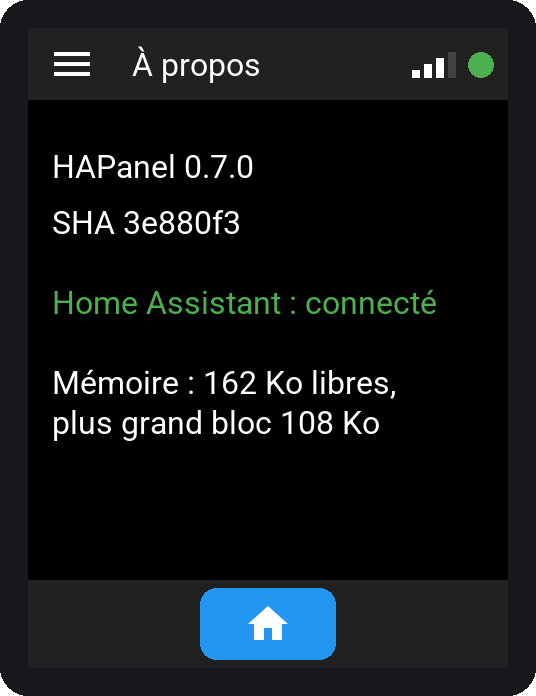
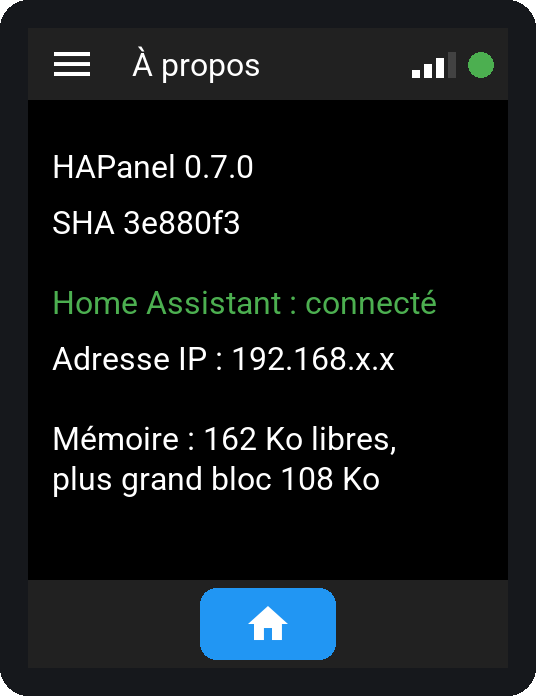
Adresse IP sur la page A propos
Demande du proprietaire : trop d'adresses en service pour s'en souvenir.
Capteur wifi_info interne (aucune entite de plus dans HA), ligne sous la
connexion a HA, memoire decalee de 28 px. Guide et image regeneree
(adresse masquee, G9) ; cahier de tests partie M.

Changed region(s): [[0.0896, 0.4828, 0.7463, 0.7241]]

diff --git a/tools/generer_images_doc.py b/tools/generer_images_doc.py
@@ -274,8 +274,10 @@ def apropos():
     e.texte(12, 60, "HAPanel 0.7.0")
     e.texte(12, 88, "SHA 3e880f3")
     e.texte(12, 128, "Home Assistant : connecté", VERT)
-    e.texte(12, 168, "Mémoire : 162 Ko libres,")
-    e.texte(12, 188, "plus grand bloc 108 Ko")
+    # Adresse masquee : aucune adresse reelle dans le depot (G9).
+    e.texte(12, 156, "Adresse IP : 192.168.x.x")
+    e.texte(12, 196, "Mémoire : 162 Ko libres,")
+    e.texte(12, 216, "plus grand bloc 108 Ko")
     e.finir("apropos.png")
 
 

diff --git a/docs/CAHIER_DE_TESTS.md b/docs/CAHIER_DE_TESTS.md
@@ -69,6 +69,7 @@ aucun. Chaque ligne se coche **OK** ou **KO** ; en cas de KO, noter ce qui a ét
 | I | Barre d'état commune et navigation (D036, D025 révisée) | `feature/barre-etat` (fusionnée) |
 | J | Déploiement public (D039) ; guide d'installation (J9, J10, J14) | `feature/poc-deploiement` (fusionnée) ; J9, J10, J14 : `docs/guide-installation` (fusionnée) |
 | L | Mise à jour signalée par la barre d'état et la LED (D045) | `feature/maj-icone` (sauf L11) |
+| M | Adresse IP sur la page À propos | `feature/maj-icone` |
 | 7 novembre 2026 | `9b78597` (S028, USB) | K1, K2, K3 | Écran et couleurs OK (contrôleur ST7789V, sans inversion) ; tactile : x brut décroît de gauche à droite (3605 à 449), y de 419 à 3662. Premier téléversement impossible avec le premier câble USB-C (aucune donnée reçue) ; OK avec un autre câble | Calibrage et `mirror_x` reportés ; K4 sur le binaire suivant |
 | 7 novembre 2026 | `174aa99` (S028, USB) | K4 à K11 | Tout OK ; K5 : glissière Éteint / Chauffage capricieuse au doigt sur dalle résistive, boutons fiables. Mémoire libre 153 Ko, plus grand bloc 96 Ko. Remarque du propriétaire : avoir à configurer le blueprint du message d'accueil en plus de celui du module n'est pas pratique (TODO rang 1) | **Partie K validée**, fusion dans `main` (accord du propriétaire) ; glissière : TODO rang 5 |
 | 7 novembre 2026 | `745126b` (blueprint, branche) | B10 à B19 | Tout OK : migration, module sans section, même texte sur deux modules, message unique, entité désactivée, météo, plage horaire ; B3 refait (B13) | **Fusion de `feature/accueil-blueprint-module` dans `main`**, accord du propriétaire |
@@ -319,3 +320,13 @@ HA y propose une mise à jour (entité « Firmware »). L9 se fait sur le binair
 | L9 | Binaire privé du banc (`hapanel_banc.yaml`) : 2 min sur l'accueil, puis déplacer un curseur de Réglages | Jamais de flèche ni d'éclair violet ; disquette comme en H16 | `feature/maj-icone` | |
 | L10 | Page À propos pendant L1 (le binaire public n'a pas les entités de mémoire du banc) | Mémoire libre et plus grand bloc notés (G6), comparables à K10 | `feature/maj-icone` | |
 | L11 | Module public à jour ; publier une Release suivante, puis redémarrer le module (ou attendre 6 h) | La flèche et les éclairs apparaissent sans autre action | — | |
+
+## M — Adresse IP sur la page À propos
+
+Demande du propriétaire du 7 novembre 2026. Tout binaire (public ou privé).
+
+| N° | Action | Attendu | Bloque la fusion de | OK / KO |
+|---|---|---|---|---|
+| M1 | Module relié au Wi-Fi : ouvrir À propos | Ligne « Adresse IP : … » sous la connexion à HA, avec l'adresse du module (la même que dans la box ou dans HA) ; mémoire en dessous, sur deux lignes, sans chevauchement ni débordement sous la barre du bas | `feature/maj-icone` | |
+| M2 | Redémarrer le module, ouvrir aussitôt À propos | « Adresse IP : aucune », puis l'adresse dès que le Wi-Fi est rejoint | `feature/maj-icone` | |
+| M3 | Dans HA, liste des entités du module | Aucune nouvelle entité « Adresse IP » (capteur interne) | `feature/maj-icone` | |

diff --git a/docs/technique/INDEX_IDS.md b/docs/technique/INDEX_IDS.md
@@ -22,6 +22,7 @@ Relancer le script après toute modification du YAML.
 | `accueil_rafraichir` | script | packages/pages/accueil.yaml | packages/led_veille.yaml, packages/liaison_ha.yaml, packages/lvgl.yaml |
 | `accueil_regler_consigne` | script | packages/pages/accueil.yaml | — |
 | `accueil_wifi` | script | packages/pages/accueil.yaml | packages/lvgl.yaml |
+| `apropos_ip` | text_sensor (ip_address) | packages/lvgl.yaml | — |
 | `banc_memoire_libre` | sensor (free) | hapanel_banc.yaml | hapanel_2432s028_banc.yaml |
 | `banc_memoire_libre` | sensor (free) | hapanel_2432s028_banc.yaml | hapanel_banc.yaml |
 | `banc_plus_grand_bloc` | sensor (block) | hapanel_banc.yaml | hapanel_2432s028_banc.yaml |
@@ -81,6 +82,7 @@ Relancer le script après toute modification du YAML.
 | `lbl_acc_temperature` | widget label | packages/pages/accueil.yaml | — |
 | `lbl_acc_temperature_etat` | widget label | packages/pages/accueil.yaml | — |
 | `lbl_apropos_connexion` | widget label | packages/lvgl.yaml | — |
+| `lbl_apropos_ip` | widget label | packages/lvgl.yaml | — |
 | `lbl_apropos_memoire` | widget label | packages/lvgl.yaml | — |
 | `lbl_apropos_sha` | widget label | packages/lvgl.yaml | — |
 | `lbl_apropos_version` | widget label | packages/lvgl.yaml | — |

diff --git a/docs/ARCHITECTURE.md b/docs/ARCHITECTURE.md
@@ -64,7 +64,7 @@ le tactile et le réseau (G1). Ces lambdas restent du C++, inséré tel quel dan
 | `packages/hardware_2432s028.yaml` | 122 | Carte ESP32-2432S028 : mêmes `id`, rétroéclairage GPIO21, tactile résistif XPT2046 |
 | `hapanel_2432s028_banc.yaml` | 38 | Banc sur carte ESP32-2432S028 |
 | `hapanel_2432s028_public.yaml` | 24 | Binaire public de la carte ESP32-2432S028 (D041) |
-| `packages/lvgl.yaml` | 356 | Polices communes, À propos, barre d'état en haut (titre, disquette, mise à jour, Wi-Fi, HA, ☰, D036, D045) et bouton Accueil en bas, suivi de la connexion |
+| `packages/lvgl.yaml` | 378 | Polices communes, À propos (version, SHA, connexion, adresse IP, mémoire), barre d'état en haut (titre, disquette, mise à jour, Wi-Fi, HA, ☰, D036, D045) et bouton Accueil en bas, suivi de la connexion |
 | `packages/liaison_ha.yaml` | 489 | Action `maj_valeur`, valeurs reçues, effacement, péremption |
 | `packages/led_veille.yaml` | 320 | Veille, retour à l'accueil, LED, rétroéclairage, réglages du module (D027, D031) |
 | `packages/message_accueil.yaml` | 160 | Action `message_accueil`, message plein écran, entité « Message d'accueil » |

diff --git a/docs/UTILISATION.md b/docs/UTILISATION.md
@@ -110,8 +110,8 @@ Un bouton marqué **Indisponible** ne peut pas être touché.
 
 ![Page À propos](images/apropos.png)
 
-Version du logiciel, connexion à Home Assistant et mémoire. Ces informations sont
-utiles en cas de dépannage.
+Version du logiciel, connexion à Home Assistant, adresse IP du panneau sur le réseau
+(« aucune » sans Wi-Fi) et mémoire. Ces informations sont utiles en cas de dépannage.
 
 ## Réglages
 
